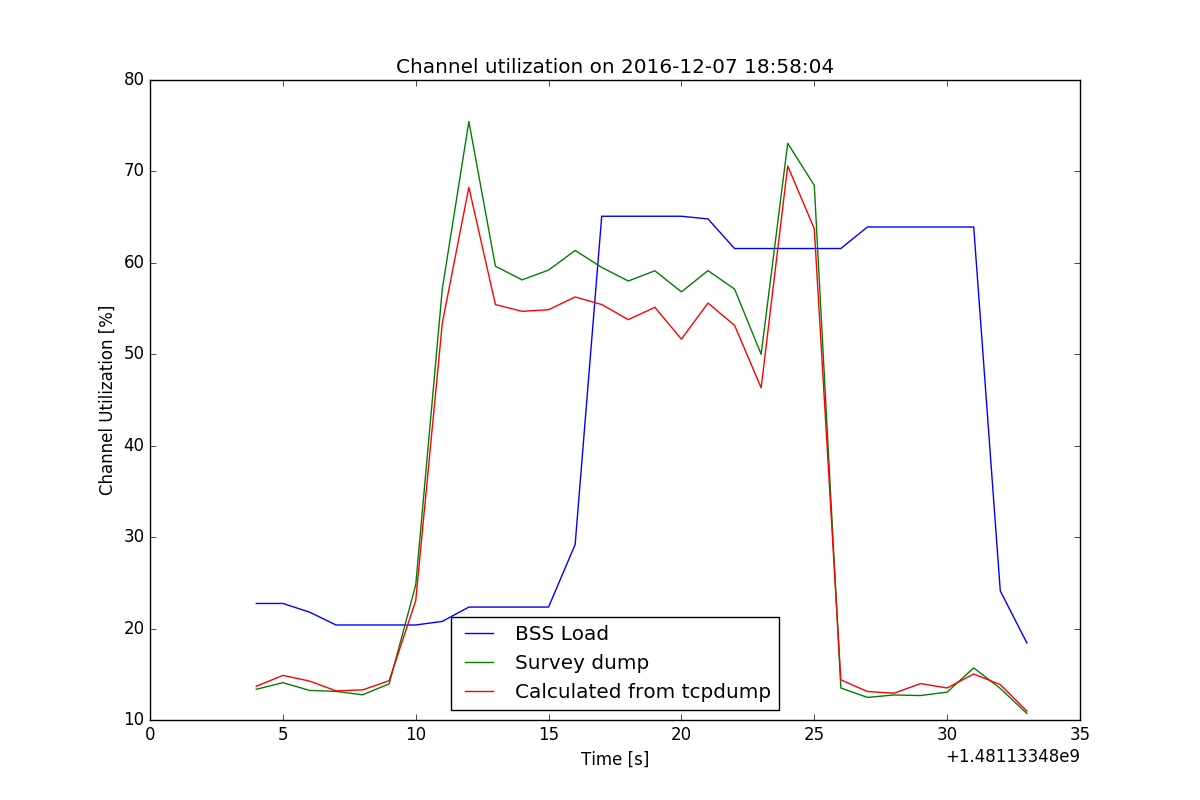
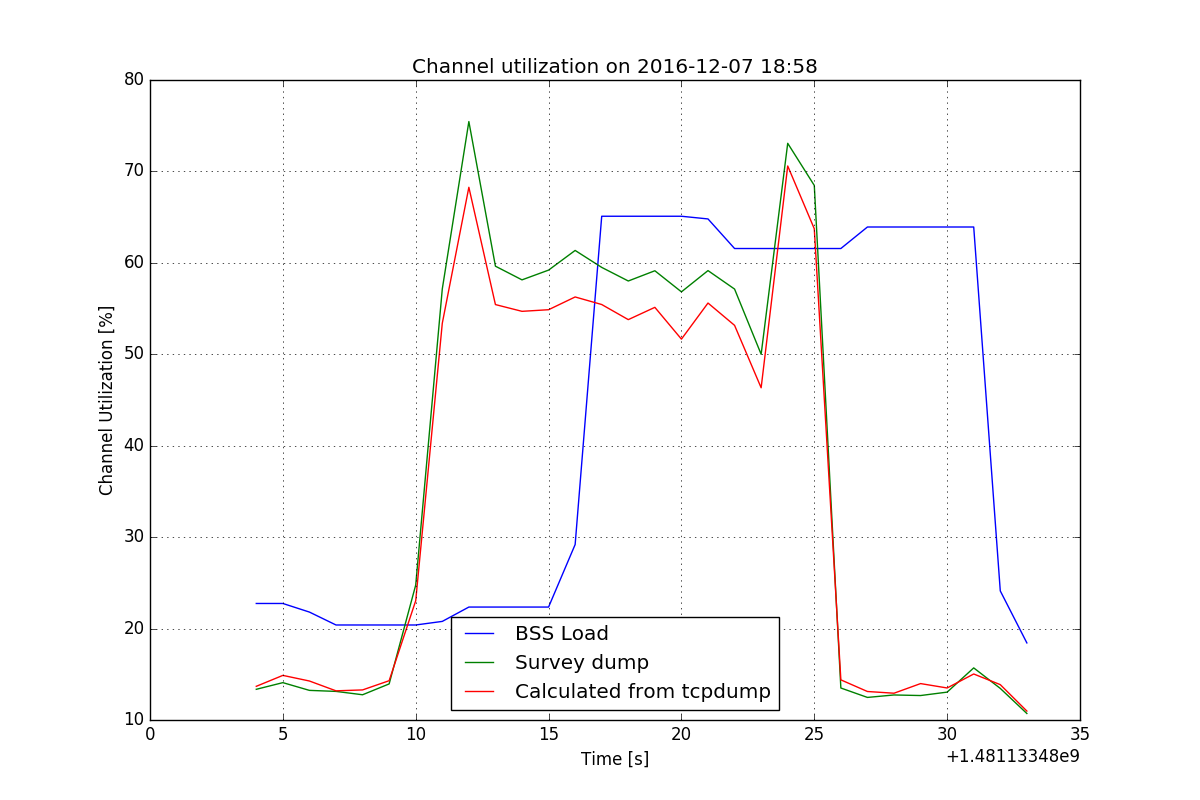
Implemented q2d, results included

Changed region(s): [[0.3392, 0.0625, 0.7092, 0.0938]]

diff --git a/group06_hw06/q2/scripts/hw06q2.py b/group06_hw06/q2/scripts/hw06q2.py
@@ -27,7 +27,7 @@ def main(argv):
     times_survey, cus_survey = get_cu_from_survey_dumps(survey)
     times_manual, cus_manual = get_cu_from_trace_manually(tcpdump)
 
-    date = time.strftime('%Y-%m-%d %H:%M:%S', time.localtime(times_BSS[0]))
+    date = time.strftime('%Y-%m-%d %H:%M', time.localtime(times_BSS[0]))
 
     plt.figure(figsize=(12, 8))
     plt.title("Channel utilization on %s"%date)
@@ -36,8 +36,11 @@ def main(argv):
     plt.plot(times_BSS, cus_BSS, label="BSS Load")
     plt.plot(times_survey, cus_survey, label="Survey dump")
     plt.plot(times_manual, cus_manual, label="Calculated from tcpdump")
+    plt.grid(True)
     plt.legend(loc="best")
     plt.savefig("utilizations.png")
+
+    plot_bar_utilization_by_type(tcpdump)
 
 
 
@@ -157,6 +160,76 @@ def get_cu_from_survey_dumps(filepath):
     utilizations.append(sum(cus) / float(len(cus)))
     times.append(cur_time)
     return times, utilizations
+
+def plot_bar_utilization_by_type(filepath):
+    tcpdump_call = (
+    "tshark -r %s -T fields -e frame.time_epoch -e frame.len -e radiotap.datarate -e radiotap.length -e frame.protocols -e udp.length"
+    # " -c 1000" % filepath).split(" ")   # TODO: add a -c 1000 here if needed for quick tests
+    "" % filepath).split(" ")  # TODO: add a -c 1000 here if needed for quick tests
+    lines = sub.check_output(tcpdump_call, universal_newlines=True).split('\n')
+    if len(lines) == 0:
+        raise Exception("No usable lines in %s" % filepath)
+
+    t_phy_overhead = 20  # 20us = preamble + phy header
+    t_ofdm = 4
+    first_udp_epoch = 0.0
+    last_udp_epoch = 0.0
+    udp_time = 0
+    non_udp_in_udp_timeframe = 0
+    non_udp = 0
+    for i in range(0, len(lines) - 1):  # -1 because last line is empty
+        try:
+            # for each frame in trace
+            epoch = float(lines[i].split()[0])  # Epoch time
+            total_len = int(lines[i].split()[1])  # Total capture len in bytes
+            datarate = float(lines[i].split()[2].replace(',', '.'))  # datarate from Radiotap header
+            radiotap_len = int(lines[i].split()[
+                                   3])  # Radiotap header size to be subtracted from total frame len as its transmitted at a different bitrate
+            protocols = lines[i].split()[4].split(":")  # get all protocols that the frame uses
+
+            rate = datarate * 1024 * 1024 / 8.0 / 1000000.0  # get the datarate in Bytes per us
+
+            transmit_time = t_phy_overhead + t_ofdm + (total_len - radiotap_len) / rate
+
+            if "udp" in protocols:
+                if first_udp_epoch == 0: first_udp_epoch = epoch
+                last_udp_epoch = epoch
+
+                ack = t_phy_overhead + t_ofdm + (42) / rate  # 42 B = 28 B for mac header + 14 B for ack size
+                transmit_time += ack
+
+                non_udp_in_udp_timeframe += non_udp
+                non_udp = 0
+                udp_time += transmit_time
+
+            else:
+                non_udp += transmit_time
+
+        except:
+            print("Error in line: %s" % lines[i])
+            raise
+
+    timeframe = (last_udp_epoch - first_udp_epoch) * 1000000.0    # Time frame in us
+    udp_percent = udp_time / timeframe * 100.0
+    other_percent = non_udp_in_udp_timeframe / timeframe * 100.0
+    no_traffic_percent = (udp_time + non_udp_in_udp_timeframe) / timeframe * 100.0
+    labels = ["UDP", "Other", "No traffic"]
+    values  = [udp_percent, other_percent, no_traffic_percent]
+
+    print("First UDP epoch: %f\tLast UDP epoch: %f"%(first_udp_epoch, last_udp_epoch))
+
+    date = time.strftime('%Y-%m-%d %H:%M', time.localtime(first_udp_epoch))
+    plt.close()
+    plt.figure()
+    plt.xlabel("Frame type")
+    plt.ylabel("Percentage of time on air [%]")
+    plt.title("Channel utilization by frame type on %s" % date)
+    plt.bar(range(len(labels)), values, align='center')
+    plt.xticks(range(len(labels)), labels)
+    plt.savefig("utilization_by_type_while_UDP.png")
+    plt.close()
+
+
 
 
 
